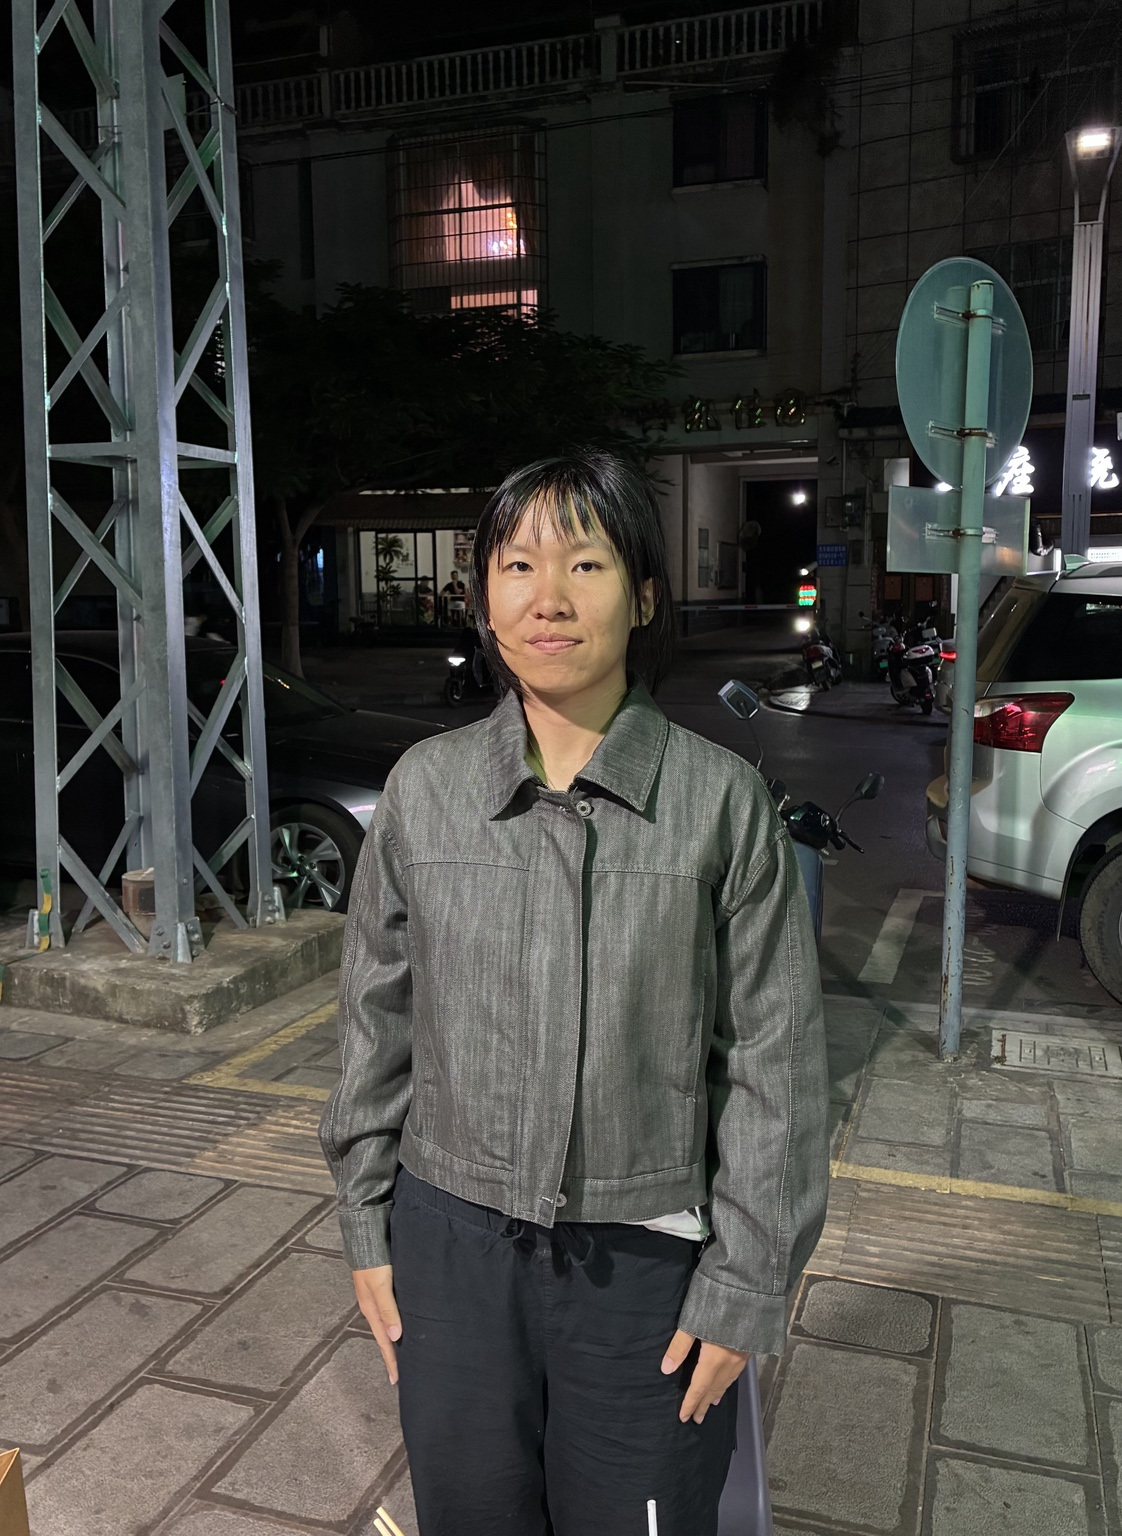
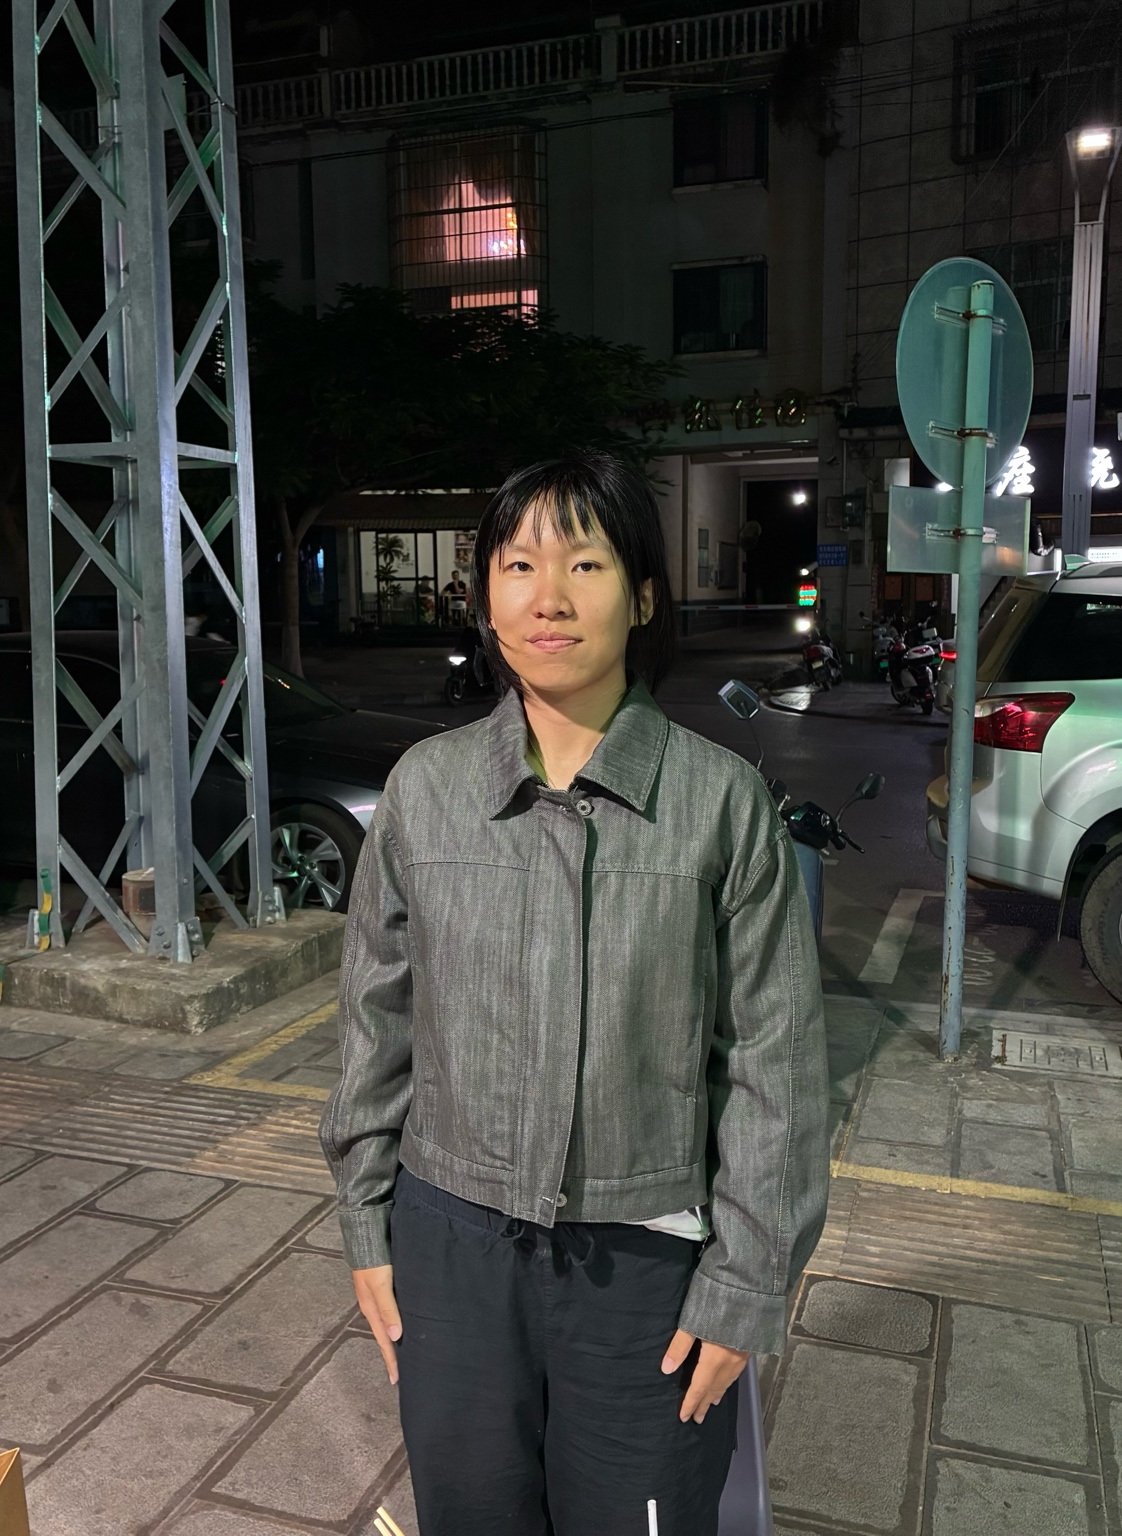
Add files via upload

diff --git a/style.css b/style.css
@@ -8,7 +8,7 @@
 /* Crop the photo around the subject, preserving the original image. */
 .portrait-frame{position:relative;overflow:hidden}
 .portrait-crop{position:absolute;inset:11px;overflow:hidden}
-.portrait-image{display:block;width:100%;height:100%;object-fit:cover;object-position:center;transform:scale(1.65);transform-origin:center 46%}
+.portrait-image{display:block;width:100%;height:100%;object-fit:cover;object-position:center 58%;transform:scale(1.65);transform-origin:center 46%}
 @media(max-width:600px){.portrait-crop{inset:6px}}
 
 .paper .publication-status{margin-top:10px;color:var(--ink)}
